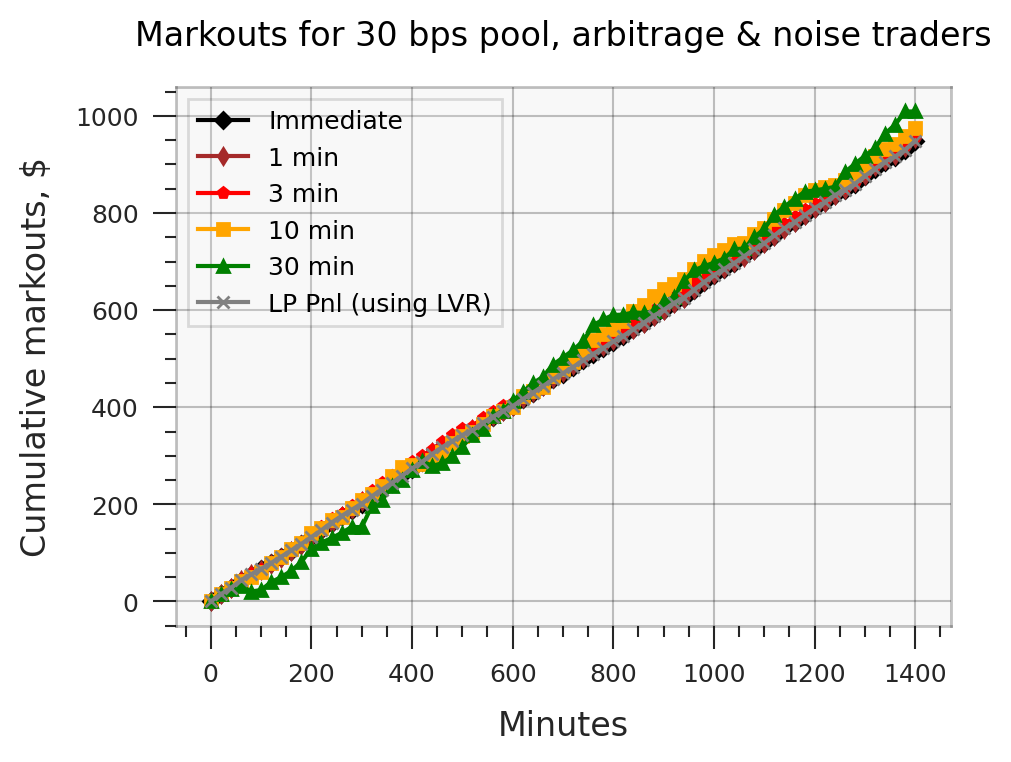
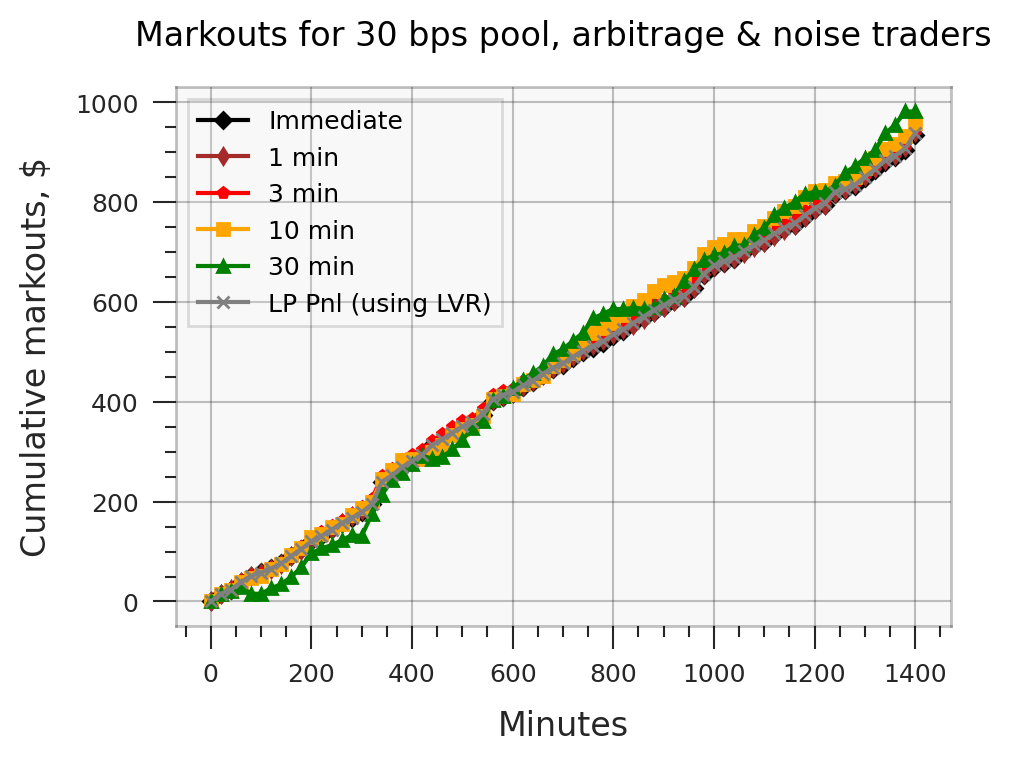
README and other cleanup

diff --git a/simulate.py b/simulate.py
@@ -131,7 +131,7 @@ def plot_performance_arb_only(all_prices, duration_seconds, swap_fee_bps):
 ############################################################
 
 def generate_trades(num_blocks, expected_volume_per_block):
-    if True:
+    if False:
         # generates exponentially distributed trades
         values = np.random.exponential(scale=1.0, size=num_blocks)
         values *= expected_volume_per_block
@@ -254,7 +254,7 @@ def plot_performance_noise_only(all_prices, duration_seconds, swap_fee_bps):
     pl.xlabel("Minutes")
     pl.ylabel("Cumulative markouts, $")
     pl.legend()
-    pl.title(f"Markouts for {swap_fee_bps} bps pool, arbitrage & noise traders")
+    pl.title(f"Markouts for {swap_fee_bps} bps pool, noise only")
 
     avg_volume = np.mean(volume)
     print(f"arb and noise: volume={avg_volume / 1e6:.3f} M")

diff --git a/README.md b/README.md
@@ -25,10 +25,10 @@ For simulations that include noise traders, additionally:
 
 # Contents
 
-* `arbitrage_only.py` - examples where only arbitrage trades are present
-* `arbitrage_and_noise.py` - examples where only arbitrage trades are present
+* `simulate.py` - simulation scenarios
+* `dex.py` - core DEX implementation
 
 # Simulations
 
 The current implementation of price path simulations has significant RAM usage
-and may require several minutes to complete.
+and may require several minutes to complete for a large number of simulations.
